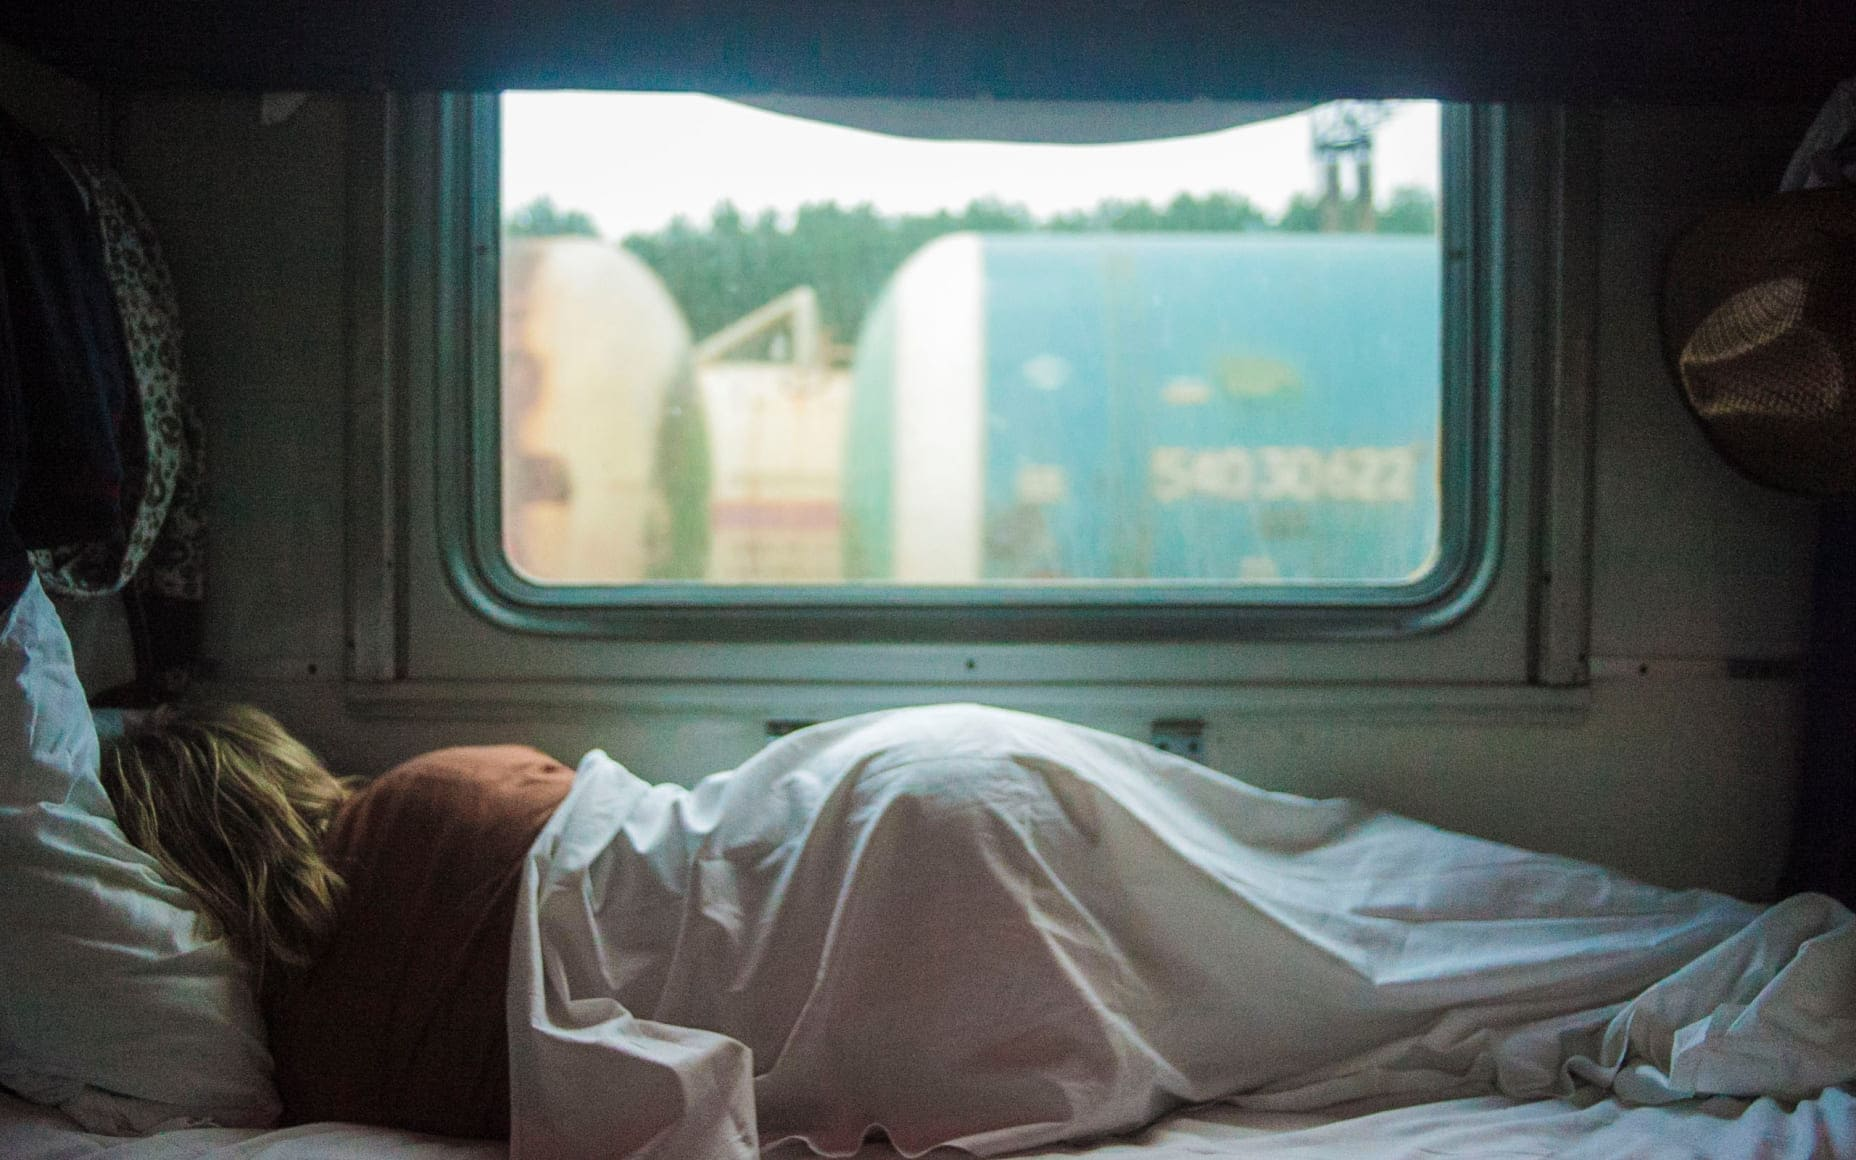
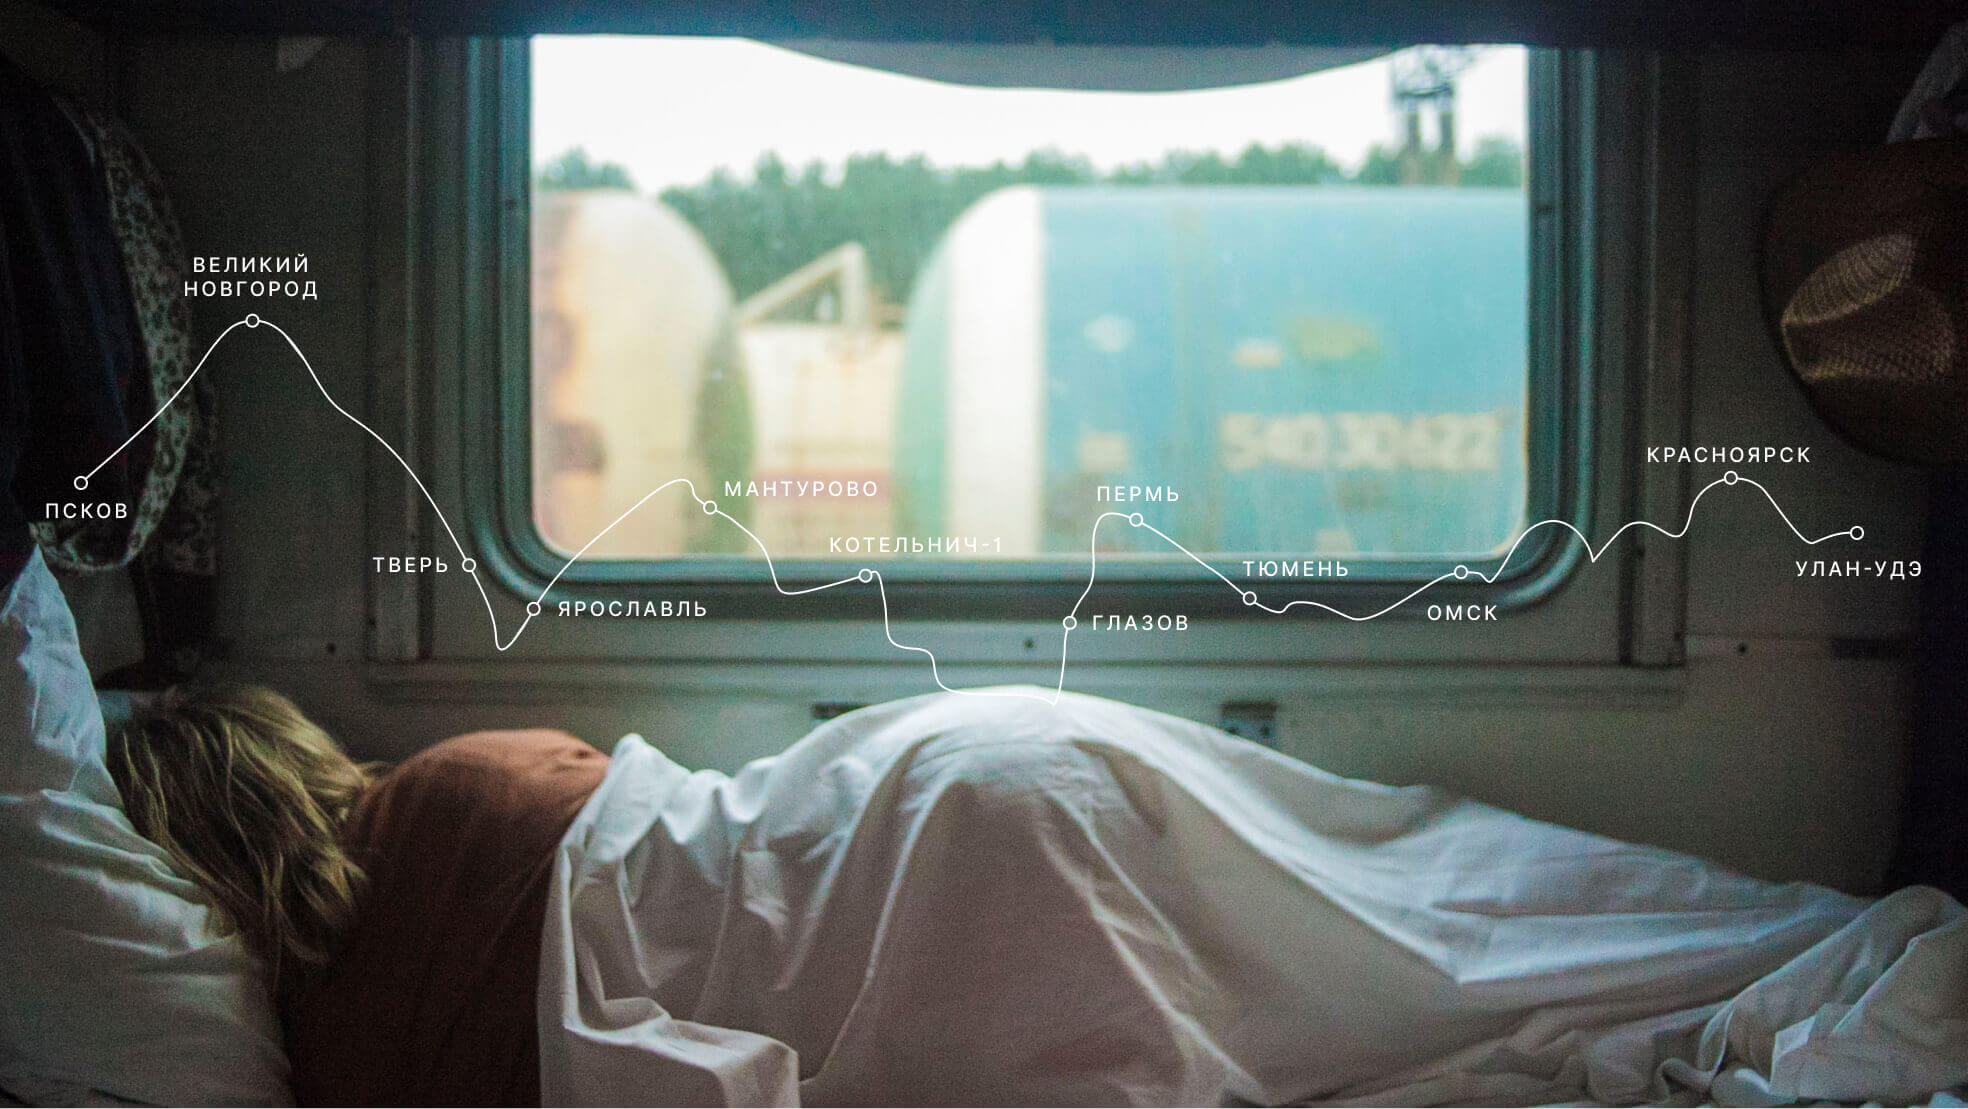
fixed mistakes after review

diff --git a/index.html b/index.html
@@ -24,10 +24,9 @@
         <h1 class="lead__title">Путешествия по России</h1>
         <p class="lead__subtitle">Настоящая страна не в выпусках новостей, а здесь.</p>
         <figure class="lead__image">
-          <img class="lead__image-polka" src="./images/lead-polka.jpg" alt="Полка в поезде">
-          <img class="lead__image-map" src="./images/lead-map.svg" alt="Карта пути"> 
+          <img class="lead__image-polka" src="./images/lead-polka.jpg" alt="Карта пути на фоне полки в поезде">
         </figure>
-        <p class="lead__caption">ваша полка — верхняя</p>
+        <figcaption class="lead__caption">ваша полка — верхняя</figcaption>
       </section>
       <section class="intro page__section">
         <h2 class="intro__title">Чего мы там не видели?</h2>
@@ -58,7 +57,7 @@
         <article class="place">
           <h2 class="place__title">Куршская коса</h2>
           <div class="place__website">
-            <p class="place__url-heading">URL</p>
+            <p class="place__url-heading">url</p>
             <a class="place__link" href="http://park-kosa.ru" target="_blank" rel="noopener">park-kosa.ru</a>
           </div>
           <img class="place__image" src="./images/place-kosa.jpg" alt="Куршская коса">
@@ -70,7 +69,7 @@
         <article class="place">
           <h2 class="place__title">Кольский</h2>
           <div class="place__website">
-            <p class="place__url-heading">URL</p>
+            <p class="place__url-heading">url</p>
             <a class="place__link" href="https://yourshot.nationalgeographic.com/photos/?keywords=kolskiy" target="_blank" rel="noopener">National Geographic</a>
           </div>
           <img class="place__image" src="./images/place-kolsky.jpg" alt="Кольский">
@@ -82,7 +81,7 @@
         <article class="place">
           <h2 class="place__title">Алтай</h2>
           <div class="place__website">
-            <p class="place__url-heading">URL</p>
+            <p class="place__url-heading">url</p>
             <a class="place__link" href="https://www.facebook.com/vera.bashmakova/posts/10156011613718822" target="_blank" rel="noopener">Facebook</a>
           </div>
           <img class="place__image" src="./images/place-altai.jpg" alt="Алтай">
@@ -94,7 +93,7 @@
         <article class="place">
           <h2 class="place__title">Зимний Байкал</h2>
           <div class="place__website">
-            <p class="place__url-heading">URL</p>
+            <p class="place__url-heading">url</p>
             <a class="place__link" href="https://vk.com/baikalmile" target="_blank" rel="noopener">https://vk.com/baikalmile</a>
           </div>
           <img class="place__image" src="./images/place-winter-baikal.jpg" alt="Зимний Байкал">
@@ -106,7 +105,7 @@
         <article class="place">
           <h2 class="place__title">Карелия</h2>
           <div class="place__website">
-            <p class="place__url-heading">URL</p>
+            <p class="place__url-heading">url</p>
             <a class="place__link" href="http://vodlozero.ru" target="_blank" rel="noopener">http://vodlozero.ru</a>
           </div>
           <img class="place__image" src="./images/place-karelia.jpg" alt="Карелия">

diff --git a/blocks/place/place.css b/blocks/place/place.css
@@ -12,7 +12,7 @@
 
 @media screen and (max-width: 1279px) {
   .place {
-    grid-template-columns: repeat(auto-fit, minmax(440px 1fr));
+    grid-template-columns: repeat(auto-fit, minmax(440px,1fr));
     grid-gap: 48px 32px;
     margin-bottom: 80px;
   }
@@ -20,14 +20,15 @@
   
 @media screen and (max-width: 1023px) {
   .place {
-    grid-template-columns: repeat(auto-fit, minmax(340px 1fr));
+    grid-template-columns: repeat(auto-fit, minmax(340px,1fr));
     grid-gap: 48px 28px;
     margin-bottom: 73px;
   }
 }
 
-@media screen and (max-width: 767px) {
+@media screen and (max-width: 600px) {
   .place {
+    grid-gap: 0;
     display: flex;
     flex-direction: column;
     margin-bottom: 50px;

diff --git a/blocks/page/__header/page__header.css b/blocks/page/__header/page__header.css
@@ -1,19 +1,22 @@
 .page__header {
   max-width: 1184px;
-  margin-top: 28px;
-  margin-bottom: 56px;
+  margin: 28px auto 56px;
+  /* margin-top: 28px;
+  margin-bottom: 56px; */
   /* outline: 1px red solid; */
 }
 
 @media screen and (max-width: 1279px) and (min-width: 1023px) {
   .page__header {
-    margin-bottom: 48px;
+    margin: 0 auto 48px;
+    /* margin-bottom: 48px; */
   }
 }
 
 @media screen and (max-width: 767px) {
   .page__header {
-    margin-top: 16px;
-    margin-bottom: 48px;
+    margin: 16px auto 48px;
+    /* margin-top: 16px;
+    margin-bottom: 48px; */
   }
 }

diff --git a/blocks/place/__paragraph/place__paragraph.css b/blocks/place/__paragraph/place__paragraph.css
@@ -1,7 +1,6 @@
 .place__paragraph {
     margin-top: 0;
     margin-bottom: 26px;
-    font-family: 'Inter', Arial, sans-serif;
     font-style: normal;
     font-weight: normal;
     font-size: 18px;
@@ -17,7 +16,6 @@
 @media screen and (max-width: 1023px) {
     .place__paragraph {
         font-size: 16px;
-        line-height: 1.6;
         margin-bottom: 25px;
     }
 
@@ -26,7 +24,7 @@
     }
 }
 
-@media screen and (max-width: 767px) {
+@media screen and (max-width: 600px) {
     .place__paragraph {
         padding-left: 16px;
     }

diff --git a/blocks/photo-grid/photo-grid.css b/blocks/photo-grid/photo-grid.css
@@ -1,5 +1,6 @@
 .photo-grid {
   max-width: 1184px;
+  width: calc(100% - 96px);
   margin: 0 auto;
   display: grid;
   justify-content: center;
@@ -18,6 +19,7 @@
 @media screen and (max-width: 1023px) {
   .photo-grid {
     grid-template-columns: repeat(auto-fit, minmax(352px, 1fr));
+    width: calc(100% - 48px);
   }
 }
   
@@ -25,5 +27,6 @@
   .photo-grid {
     grid-template-columns: repeat(auto-fit, minmax(288px, 1fr));
     grid-gap: 12px;
+    width: calc(100% - 32px);
   }
 }

diff --git a/blocks/page/__section/page__section.css b/blocks/page/__section/page__section.css
@@ -1,16 +1,19 @@
 .page__section {
-  margin-bottom: 92px;
+  margin: 0 auto 92px;
+  /* margin-bottom: 92px; */
   /* outline: 1px red solid; */
 }
 
 @media screen and (min-width: 1023px) {
   .page__section {
-    margin-bottom: 88px;
+    margin: 0 auto 88px;
+    /* margin-bottom: 88px; */
   }
 }
 
 @media screen and (max-width: 767px) {
   .page__section {
-    margin-bottom: 64px;
+    margin: 0 auto 64px;
+    /* margin-bottom: 64px; */
   }
 }

diff --git a/pages/index.css b/pages/index.css
@@ -15,7 +15,6 @@
 @import url("../blocks/lead/__subtitle/lead__subtitle.css");
 @import url("../blocks/lead/__image/lead__image.css");
 @import url("../blocks/lead/__image-polka/lead__image-polka.css");
-@import url("../blocks/lead/__image-map/lead__image-map.css");
 @import url("../blocks/lead/__caption/lead__caption.css");
 @import url("../blocks/intro/intro.css");
 @import url("../blocks/page/__section/page__section.css");

diff --git a/blocks/place/__title/place__title.css b/blocks/place/__title/place__title.css
@@ -1,6 +1,5 @@
 .place__title {
   margin: 0;
-  font-family: 'Inter', Arial, sans-serif;
   font-style: normal;
   font-weight: 900;
   font-size: 72px;
@@ -16,10 +15,11 @@
   }
 }
   
-@media screen and (max-width: 767px) {
+@media screen and (max-width: 600px) {
   .place__title {
     font-size: 32px;
     line-height: 1.09;
     padding-left: 16px;
+    margin-bottom: 32px;
   }
 }

diff --git a/blocks/cover/__overlay/cover__overlay.css b/blocks/cover/__overlay/cover__overlay.css
@@ -13,6 +13,7 @@
     background-repeat: no-repeat;
     background-position: center;
     overflow: hidden;
+    transition: linear 2s;
     /* outline: 1px red solid; */
 }
 
@@ -31,9 +32,7 @@
 }
 
 .cover__overlay:hover::before {
-    background-color: #2A2C2F;
     opacity: 0.8;
-    transition: linear 2s;
 }
 
 @media screen and (max-width: 1279px) {

diff --git a/blocks/cover/__title/cover__title.css b/blocks/cover/__title/cover__title.css
@@ -1,7 +1,6 @@
 .cover__title {
   max-width: 560px;
   margin: 0 auto 32px;
-  font-family: 'Inter', Arial, sans-serif;
   font-style: normal;
   font-weight: 900;
   font-size: 72px;
@@ -16,7 +15,7 @@
   .cover__title {
     max-width: 248px;
     font-size: 32px;
-    line-height: 1.1;
+    line-height: 1.09;
     margin-bottom: 16px;
   }
 }

diff --git a/blocks/place/__url-heading/place__url-heading.css b/blocks/place/__url-heading/place__url-heading.css
@@ -2,12 +2,12 @@
     max-width: 456px;
     margin-bottom: 12px;
     margin-top: 0;
-    font-family: 'Inter', Arial, sans-serif;
     font-style: normal;
     font-weight: normal;
     font-size: 12px;
     line-height: 1;
     letter-spacing: 0.2em;
     color: #AAAAAA;
+    text-transform: uppercase;
     /* outline: 1px red solid; */
 }

diff --git a/blocks/place/__website/place__website.css b/blocks/place/__website/place__website.css
@@ -3,13 +3,13 @@
     justify-self: start;
     grid-column: 2;
     grid-row: 1;
+    margin: 0;
     /* outline: 1px red solid; */
 }
 
-@media screen and (max-width: 767px) {
+@media screen and (max-width: 600px) {
     .place__website {
         padding-left: 16px;
-        margin-top: 32px;
         margin-bottom: 32px;
     }
 }
